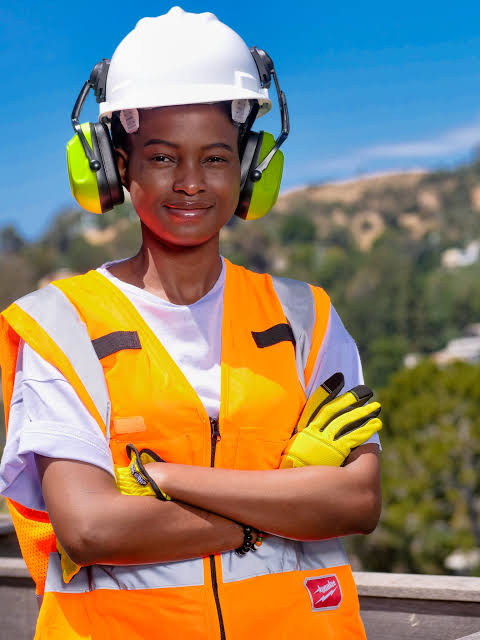
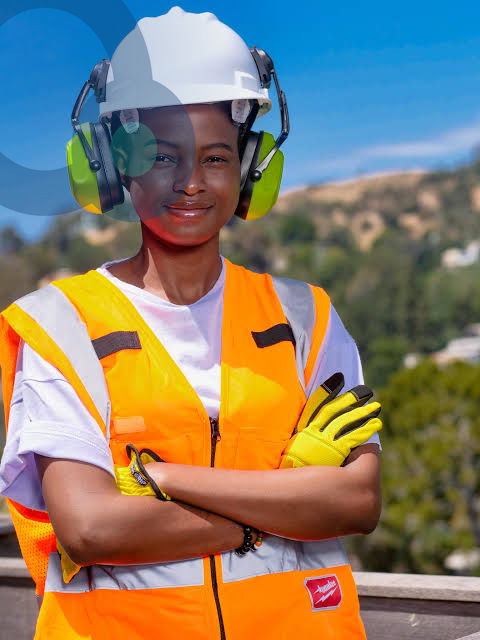
update overlay v3

Changed region(s): [[0.0, 0.0, 0.4375, 0.3438]]

diff --git a/about.html b/about.html
@@ -43,25 +43,25 @@
             <div class="page-split__content">
                 <span class="eyebrow"><span class="dot"></span> About Us</span>
                 <h1>One partner for cleaner operations.</h1>
-                <p>
-                    <span class="text-teal fw-bold">CentriCare PTY Ltd</span> is a trailblazing, 
-                    <span class="text-teal fw-bold">100% black woman-owned enterprise</span> 
+                <p style="color: black">
+                    CentriCare PTY Ltd</span> is a trailblazing, 
+                    100% black woman-owned enterprise</span> 
                     with a proven track record spanning over 
-                    <span class="text-teal fw-bold">16 years</span>. Established in <span class="text-teal fw-bold">2009</span>, we have proudly emerged as a 
-                    <span class="text-teal fw-bold">preferred service provider</span> 
+                    16 years</span>. Established in 2009</span>, we have proudly emerged as a 
+                    preferred service provider</span> 
                     in healthcare supplies, infrastructure development, and facilities management for both the public and private sectors in 
-                    <span class="text-teal fw-bold">South Africa</span>.
+                    South Africa</span>.
                 </p>
 
-                <p>
-                    At <span class="text-teal fw-bold">CentriCare PTY Ltd</span>, excellence is not just a goal; it is our standard. 
+                <p style="color: black">
+                    At CentriCare PTY Ltd</span>, excellence is not just a goal; it is our standard. 
                     Our operational processes are rooted in internationally recognized 
-                    <span class="text-teal fw-bold">ISO 9001:2015 Quality Management Systems</span>, 
+                    ISO 9001:2015 Quality Management Systems</span>, 
                     ensuring consistency, innovation, and superior outcomes across all our services.
                 </p>
 
-                <p>
-                    Our <span class="text-teal fw-bold">Total Facilities Management Division</span> 
+                <p style="color: black">
+                    Our Total Facilities Management Division</span> 
                     is a trusted leader in delivering tailored solutions that prioritize comfort, cleanliness, and operational efficiency.
                 </p>
             </div>
@@ -73,25 +73,25 @@
                 <div class="letter-c-left"></div>
             </div>
             <div class="page-split__content">
-                <p>
+                <p style="color: black">
                     Our comprehensive service offerings include 
-                    <span class="text-teal fw-bold">cleaning services</span>, 
-                    <span class="text-teal fw-bold">hygiene services</span>, 
-                    <span class="text-teal fw-bold">pest control</span>, and 
-                    <span class="text-teal fw-bold">waste management</span> 
-                    — ensuring every aspect of your facility operates at its best. By redefining <span class="text-teal fw-bold">industry benchmarks</span> 
+                    cleaning services, 
+                    hygiene services, 
+                    pest control, and 
+                    waste management 
+                    — ensuring every aspect of your facility operates at its best. By redefining industry benchmarks 
                     and leveraging innovative strategies, we transform the environments we manage, driving exceptional results for our clients.
                 </p>
 
-                <p>
-                    <span class="text-teal fw-bold">Collaboration and partnership</span> 
+                <p style="color: black">
+                    Collaboration and partnership 
                     form the cornerstone of our approach. By building strong relationships with clients, suppliers, and stakeholders, we foster mutual success and sustainability.
                 </p>
 
-                <p>
-                    Moreover, as a <span class="text-teal fw-bold">black woman-owned business</span>, 
-                    we are deeply committed to <span class="text-teal fw-bold">diversity and inclusion</span>. We proudly create opportunities for 
-                    <span class="text-teal fw-bold">underrepresented communities</span>, 
+                <p style="color: black">
+                    Moreover, as a black woman-owned business, 
+                    we are deeply committed to diversity and inclusion. We proudly create opportunities for 
+                    underrepresented communities, 
                     with a focus on empowering women to excel in traditionally male-dominated industries.
                 </p>
                 <div class="page-split__actions">
@@ -107,10 +107,10 @@
             </div>
             <div class="page-split__content">
                 <span class="eyebrow"><span class="dot"></span> Our Vision & Mission</span>
-                <h1>Being a beacon of <span class="text-teal">excellence</span> and <span class="text-teal">innovation</span></h1>
-                <p class="lede">Our <span class="text-teal fw-bold">vision</span> is to be a beacon of excellence and innovation in healthcare supplies, infrastructure development, clothing, textile, 
+                <h1>Being a beacon of excellence and innovation</h1>
+                <p style="color: black">Our vision is to be a beacon of excellence and innovation in healthcare supplies, infrastructure development, clothing, textile, 
                     footwear and facilities management, redefining industry standards and empowering communities while building a sustainable future.</p>
-                <p class="lede">Our <span class="text-teal fw-bold">mission</span> is to deliver exceptional services that prioritize quality, innovation, and customer satisfaction. By embracing cutting-edge 
+                <p style="color: black">Our mission is to deliver exceptional services that prioritize quality, innovation, and customer satisfaction. By embracing cutting-edge 
                     practices and fostering meaningful partnerships, we strive to create clean, safe, and efficient environments that positively impact lives and drive 
                     progress in the public and private sectors.
                 </p>
@@ -124,18 +124,18 @@
             </div>
             <div class="page-split__content">
                 <span class="eyebrow"><span class="dot"></span>Our Values</span>
-                <h1>Built on <span class="text-teal">integrity</span>, driven by <span class="text-teal">excellence</span>.</h1>
+                <h1>Built on integrity</span>, driven by excellence</span>.</h1>
                 <ul class="page-split__list">
-                    <li><span class="text-teal fw-bold">Excellence</span></li>
-                    <p class="lede">We are comitted to exceeding expectations by mantaining the highest standards in every aspects of our operations.</p>
-                    <li><span class="text-teal fw-bold">Integrity</span></li>
-                    <p class="lede"> We lead with honesty, transparency, and accountability, ensuring trust in all our relationships</p>
-                    <li><span class="text-teal fw-bold">Innovation</span></li>
-                    <p class="lede">We embrace forward-thinking solutions to meet evolving challenges and deliver value to our clients and stakeholders.</p>
-                    <li><span class="text-teal fw-bold">Sustainability</span></li>
-                    <p class="lede">We integrate environmentally conscious practices into our services, contributing to a greener and more sustainable future.</p>
-                    <li><span class="text-teal fw-bold">Community impact</span></li>
-                    <p class="lede">We are dedicated to making a difference in the communities we serve by providing opportunities, promoting empowerment, and driving positive change.</p>
+                    <li class="text-teal">Excellence</li>
+                    <p style="color: black">We are comitted to exceeding expectations by mantaining the highest standards in every aspects of our operations.</p>
+                    <li class="text-teal">Integrity</li>
+                    <p style="color: black"> We lead with honesty, transparency, and accountability, ensuring trust in all our relationships</p>
+                    <li class="text-teal">Innovation</li>
+                    <p style="color: black">We embrace forward-thinking solutions to meet evolving challenges and deliver value to our clients and stakeholders.</p>
+                    <li class="text-teal">Sustainability</li>
+                    <p style="color: black">We integrate environmentally conscious practices into our services, contributing to a greener and more sustainable future.</p>
+                    <li class="text-teal">Community impact</li>
+                    <p style="color: black">We are dedicated to making a difference in the communities we serve by providing opportunities, promoting empowerment, and driving positive change.</p>
                 </ul>
                 <div class="page-split__actions">
                     <a class="page-split__link text-teal" href="contact">Talk to us <i class="fas fa-arrow-right"></i></a>
@@ -164,19 +164,19 @@
                     <p class="contact-detail">We look forward to partnering with you to deliver exceptional facilities management 
                         solutions. Get in touch with us today!
                     </p>
-                    <p class="contact-detail"><span class="text-teal">Address:</span></p>
+                    <p class="contact-detail">Address:</span></p>
                     <p class="contact-detail">2 Bruton Road</p>
                     <p class="contact-detail">Bryanston, Gauteng</p>
                     <p class="contact-detail">South Africa, 2191</p>
 
-                    <p class="contact-detail"><span class="text-teal">Phone & Mobile</span></p>
-                    <p class="contact-detail"><span class="text-teal">Tel:</span> (+27) 071 472 7120</p>
-                    <p class="contact-detail"><span class="text-teal">Phone:</span> (+27) 011 300 0800</p>
+                    <p class="contact-detail">Phone & Mobile</span></p>
+                    <p class="contact-detail">Tel:</span> (+27) 071 472 7120</p>
+                    <p class="contact-detail">Phone:</span> (+27) 011 300 0800</p>
 
-                    <p class="contact-detail"><span class="text-teal">Online</span></p>
-                        <p class="contact-detail"><span class="text-teal">Email:</span> 
+                    <p class="contact-detail">Online</span></p>
+                        <p class="contact-detail">Email:</span> 
                     <a href="mailto:tebogo@centricare.co.za" class="text-white text-decoration-none">tebogo@centricare.co.za</a>
-                    <p class="contact-detail"><span class="text-teal">Website:</span> 
+                    <p class="contact-detail">Website:</span> 
                         <a href="https://www.centricare.co.za" class="text-white text-decoration-none" target="_blank">www.centricare.co.za</a>
                     </p>
 

diff --git a/services.html b/services.html
@@ -53,7 +53,7 @@
         <div class="svc-overview__grid">
             <article class="svc-group-card svc-card--teal" data-animate="scale-in" style="animation-delay:0.05s;">
                 <div class="svc-group-card__hero">
-                    <img src="img/services/clean_3.jpg" alt="Hygiene and cleaning solutions">
+                    <img src="img/industries/hygeine.jpg" alt="Hygiene and cleaning solutions">
                 </div>
                 <h3>Hygiene &amp; Cleaning Solutions</h3>
                 <ul class="svc-group-links">
@@ -66,7 +66,7 @@
 
             <article class="svc-group-card svc-card--green" data-animate="scale-in" style="animation-delay:0.19s;">
                 <div class="svc-group-card__hero">
-                    <img src="img/services/waste.jpg" alt="Operations and supply services">
+                    <img src="img/industries/supply.jpg" alt="Operations and supply services">
                 </div>
                 <h3>Operations &amp; Supply</h3>
                 <ul class="svc-group-links">
@@ -78,11 +78,11 @@
 
             <article class="svc-group-card svc-card--red" data-animate="scale-in" style="animation-delay:0.12s;">
                 <div class="svc-group-card__hero">
-                    <img src="img/services/construction.jpg" alt="Facilities and infrastructure support">
+                    <img src="img/industries/infrastructure.jpg" alt="Facilities and infrastructure support">
                 </div>
                 <h3>Facilities &amp; Infrastructure</h3>
                 <ul class="svc-group-links">
-                    <li><a href="#construction"><img src="img/services/construction.jpg" alt="Construction"><span>Construction</span></a></li>
+                    <li><a href="#construction"><img src="img/services/uniform.jpeg" alt="Construction"><span>Construction</span></a></li>
                     <li><a href="#accommodation"><img src="img/services/student_accommodation_2.jpg" alt="Student Accommodation"><span>Student Accommodation</span></a></li>
                 </ul>
             </article>
@@ -143,7 +143,7 @@
     <!-- 02 Hygiene Services -->
     <section class="svc-detail svc-detail--yellow" id="hygiene-services">
         <div class="svc-detail__inner">
-            <div class="svc-detail__image" style="background-image:url('img/services/clean_2.jpg');"></div>
+            <div class="svc-detail__image" style="background-image:url('img/services/clean_2.png');"></div>
             <div class="svc-detail__content" data-animate="fade-right">
                 <span class="svc-detail__badge">02</span>
                 <h2 class="svc-detail__title">Hygiene <span>Services</span></h2>
@@ -185,7 +185,7 @@
     <!-- 03 Hygiene Equipment -->
     <section class="svc-detail svc-detail--lime" id="hygiene-equipment">
         <div class="svc-detail__inner">
-            <div class="svc-detail__image" style="background-image:url('img/services/img32.jpg');"></div>
+            <div class="svc-detail__image" style="background-image:url('img/services/img32.png');"></div>
             <div class="svc-detail__content" data-animate="fade-left">
                 <span class="svc-detail__badge">03</span>
                 <h2 class="svc-detail__title">Hygiene <span>Equipment</span></h2>
@@ -409,7 +409,7 @@
     <!-- 09 Construction -->
     <section class="svc-detail svc-detail--grey" id="construction">
         <div class="svc-detail__inner">
-            <div class="svc-detail__image" style="background-image:url('img/services/construction3.jpg');"></div>
+            <div class="svc-detail__image" style="background-image:url('img/services/uniform.jpeg');"></div>
             <div class="svc-detail__content" data-animate="fade-left">
                 <span class="svc-detail__badge">09</span>
                 <h2 class="svc-detail__title">Construction <span>Services</span></h2>

diff --git a/index.html b/index.html
@@ -692,9 +692,9 @@
                     <article class="industry-card" data-animate="scale-in"><img src="img/industries/hotel.jpg" alt="Hospitality and tourism operations"><h3>Hospitality and Tourism</h3><p>Guests notice the details, from spotless lobbies to fresh-smelling rooms. We keep hotels, resorts, and event venues guest-ready every single day. Consistent hygiene and presentation protect the experience your brand promises.</p></article>
                     <article class="industry-card" data-animate="scale-in" style="animation-delay:0.08s;"><img src="img/industries/hospital.jpg" alt="Healthcare facilities"><h3>Healthcare Facilities</h3><p>Hospitals and clinics can't afford to compromise on hygiene. Our sanitation and waste management systems are built around strict health and safety standards. It's specialized care for the spaces that care for people.</p></article>
                     <article class="industry-card" data-animate="scale-in" style="animation-delay:0.16s;"><img src="img/industries/shop.jpg" alt="Retail environments"><h3>Retail and Commercial</h3><p>A clean store is a more inviting store. We keep malls, retail outlets, and offices looking sharp with deep cleaning and reliable upkeep. The result is a safer, more welcoming space that protects the customer experience.</p></article>
-                    <article class="industry-card" data-animate="scale-in" style="animation-delay:0.24s;"><img src="img/industries/aula.jpg" alt="Education institutions"><h3>Education Institutions</h3><p>Students and staff deserve a clean, healthy place to learn. We run dependable hygiene programs across schools, universities, and training centres. Regular cleaning keeps these high-traffic spaces safe all year round.</p></article>
+                    <article class="industry-card" data-animate="scale-in" style="animation-delay:0.24s;"><img src="img/industries/aula.png" alt="Education institutions"><h3>Education Institutions</h3><p>Students and staff deserve a clean, healthy place to learn. We run dependable hygiene programs across schools, universities, and training centres. Regular cleaning keeps these high-traffic spaces safe all year round.</p></article>
                     <article class="industry-card" data-animate="scale-in" style="animation-delay:0.32s;"><img src="img/industries/government.jpg" alt="Government facilities"><h3>Government Facilities</h3><p>Public spaces serve everyone, so they need to be maintained for everyone. We deliver tailored cleaning, hygiene, and waste management for municipal and government facilities. It's community-centred service that supports daily public life.</p></article>
-                    <article class="industry-card" data-animate="scale-in" style="animation-delay:0.4s;"><img src="img/services/construction.jpg" alt="Construction sites"><h3>Real Estate and Construction</h3><p>New builds need more than a final coat of paint to be move-in ready. We handle post-construction cleanup, debris removal, and detailed maintenance. Sites and buildings are left genuinely ready for occupancy, not just emptied of tools.</p></article>
+                    <article class="industry-card" data-animate="scale-in" style="animation-delay:0.4s;"><img src="img/services/construction3.jpg" alt="Construction sites"><h3>Real Estate and Construction</h3><p>New builds need more than a final coat of paint to be move-in ready. We handle post-construction cleanup, debris removal, and detailed maintenance. Sites and buildings are left genuinely ready for occupancy, not just emptied of tools.</p></article>
                 </div>
 
                 <p style="margin-top:18px;"><a href="industries" class="text-white text-decoration-none fw-bold">Explore all industries <i class="fas fa-arrow-right"></i></a></p>

diff --git a/industries.html b/industries.html
@@ -93,7 +93,7 @@
         <!-- 03 Educational Institutions -->
         <section class="svc-detail svc-detail--grey" id="hygiene-equipment">
             <div class="svc-detail__inner">
-                <div class="svc-detail__image" style="background-image:url('img/industries/aula.jpg');"></div>
+                <div class="svc-detail__image" style="background-image:url('img/industries/aula.png');"></div>
                 <div class="svc-detail__content" data-animate="fade-left">
                     <span class="svc-detail__badge">03</span>
                     <h2 class="svc-detail__title">Educational <span>Institutions</span></h2>
